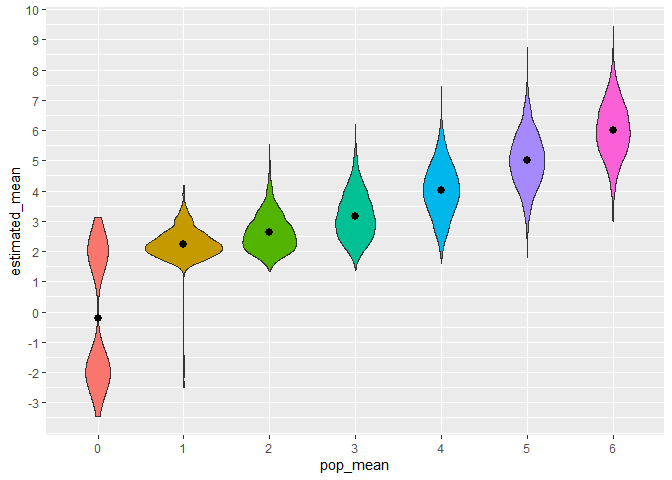
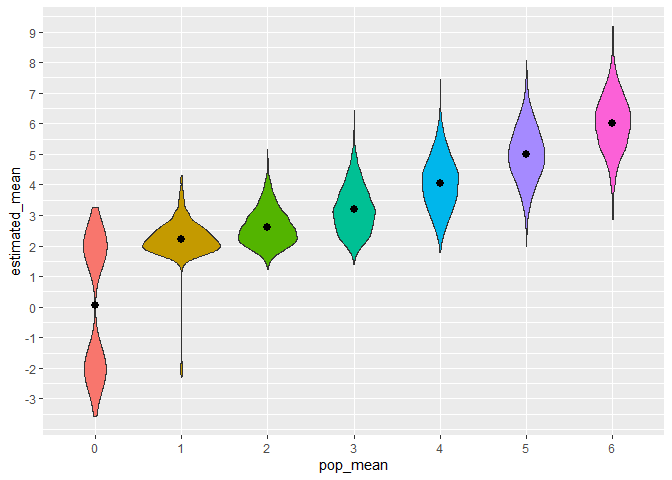
Final commit

diff --git a/p8105_hw5_jt3466.md b/p8105_hw5_jt3466.md
@@ -47,33 +47,6 @@ pop_size <- 30
 pop_sd <- 5
 alpha <- 0.05
 
-# rnorm(mean = 0, n = pop_size, sd = pop_sd) |> 
-#   t.test(mu = 0, alternative = "two.sided")
-# 
-# test <-
-#   expand_grid(
-#     i = 5,
-#     pop_mean = c(0:6)
-#   ) |> 
-#   mutate(
-#     data = map(pop_mean, \(x) rnorm(n = pop_size, mean = x, sd = pop_sd)),
-#     ttest = map2(data, pop_mean, \(x, y) t.test(x = x, mu = y, alternative = "two.sided")),
-#     results = map(ttest, broom::tidy)
-#   ) |> 
-#   unnest(cols = results)
-
-# test_sim_data <- 
-#   expand_grid(
-#     i = 1:5000,
-#     pop_mean = c(0:6)
-#   ) |>
-#   mutate(
-#     data = map(pop_mean, \(x) rnorm(n = pop_size, mean = x, sd = pop_sd)),
-#     ttest = map2(data, pop_mean, \(x, y) t.test(x = x, mu = y, alternative = "two.sided")),
-#     results = map(ttest, broom::tidy)
-#   ) |> 
-#   unnest(cols = results) 
-
 sim_data <- 
   expand_grid(
     i = 1:5000,
@@ -85,75 +58,6 @@ sim_data <-
     results = map(ttest, broom::tidy)
   ) |> 
   unnest(cols = results) 
-  
-# sim_data |> 
-#   filter(p.value < 0.05) |> 
-#   mutate(
-#     abs_statistic = abs(statistic)
-#   ) |> 
-#   select(pop_mean, abs_statistic) |> 
-#   group_by(pop_mean) |> 
-#   summarize(
-#     mean_abs_stat = mean(abs_statistic)
-#   )
-
-# sim_res_data <- 
-#   sim_data |> 
-#   select(pop_mean, estimate, p.value) |> 
-#   rename(estimated_mean = estimate) |> 
-#   arrange(pop_mean) |> 
-#   group_by(pop_mean) |> 
-#   mutate(
-#     significant = case_when(
-#       p.value < 0.05 ~ 1,
-#       p.value > 0.05 ~ 0,
-#       .default = NA
-#     ), 
-#     prptn_sig = mean(significant)
-#   ) 
-# 
-# sim_res_data |> 
-#   ggplot(aes(x = pop_mean, y = prptn_sig)) + 
-#   geom_line()
-
-# sim_data <-
-#   expand_grid(
-#     i = 1:5000,
-#     pop_mean = c(0:6)
-#   ) |>
-#   mutate(
-#     data = map(pop_mean, \(x) rnorm(n = pop_size, mean = x, sd = pop_sd)),
-#     ttest = map2(data, pop_mean, \(x, y) t.test(x = x, mu = y, alternative = "two.sided")),
-#     results = map(ttest, broom::tidy)
-#   ) |> 
-#   unnest(cols = results) 
-# 
-# # sim_data |> 
-# #   mutate(
-# #     mean = map_dbl(data, mean),
-# #     sd = map_dbl(data, sd)
-# #   ) |> 
-# #   select(mean, pop_mean, estimate, sd, everything())
-# 
-#   
-# sim_res_data <- 
-#   sim_data |> 
-#   select(pop_mean, estimate, p.value) |> 
-#   rename(estimated_mean = estimate) |> 
-#   arrange(pop_mean) |> 
-#   group_by(pop_mean) |> 
-#   mutate(
-#     significant = case_when(
-#       p.value < 0.05 ~ 1,
-#       p.value > 0.05 ~ 0,
-#       .default = NA
-#     ), 
-#     prptn_sig = mean(significant)
-#   ) 
-# 
-# sim_res_data |> 
-#   ggplot(aes(x = pop_mean, y = prptn_sig)) + 
-#   geom_line()
 ```
 
 ``` r
@@ -209,16 +113,6 @@ sig_avg_mu_hats <-
     avg_estimated_mean = mean(estimated_mean) 
   )
 
-# avg_mu_hats |> 
-#   filter(pop_mean == 1) |> 
-#   summarize(est_mean = mean(estimated_mean)) |> 
-#   pull(est_mean)
-# 
-# sig_avg_mu_hats |> 
-#   filter(pop_mean == 1) |> 
-#   summarize(est_mean = mean(estimated_mean)) |> 
-#   pull(est_mean)
-
 avg_mu_hats |> 
   ggplot(aes(x = pop_mean, y = estimated_mean)) +
   geom_point() + 
@@ -259,9 +153,9 @@ population mean is approximately the population mean. However, for the
 sample average estimated means for estimates significantly different
 from the null, the trend is largely similar except when the population
 mean is 1 and to a lesser extent, 2. When the population mean is 1, the
-average estimated mean among significant estimates is 2.2397479 instead
+average estimated mean among significant estimates is 2.2523549 instead
 of 1. When the population mean is 2, the average estimated mean among
-significant estimates is 2.6212215.
+significant estimates is 2.6106834.
 
 This somewhat makes sense given that when mu = 1, the lowest of the
 significantly different estimated means is still above mu itself (the
@@ -290,7 +184,7 @@ sig_avg_mu_hats |>
     ## Warning: Removed 7 rows containing missing values or values outside the scale range
     ## (`geom_segment()`).
 
-![](p8105_hw5_jt3466_files/figure-gfm/unnamed-chunk-1-1.png)<!-- -->
+![](p8105_hw5_jt3466_files/figure-gfm/distribution%20of%20estimated%20means%20by%20mu-1.png)<!-- -->
 
 This is reinforced when looking at the distribution of estimated means
 grouped by the population mean the sample came from. When mu is 1, the
@@ -398,25 +292,74 @@ wp_prop <-
             open_homicides = sum(disposition %in% c("Closed without arrest", "Open/No arrest"))) |> 
   mutate(
     prop_unsolved = open_homicides/total_homicides
-  )
+  ) 
 
-wp_prop
+wp_prop |> 
+  arrange(desc(total_homicides)) |> 
+  knitr::kable(digits = 3)
 ```
 
-    ## # A tibble: 51 × 4
-    ##    city_state      total_homicides open_homicides prop_unsolved
-    ##    <chr>                     <int>          <int>         <dbl>
-    ##  1 Albuquerque, NM             378            146         0.386
-    ##  2 Atlanta, GA                 973            373         0.383
-    ##  3 Baltimore, MD              2827           1825         0.646
-    ##  4 Baton Rouge, LA             424            196         0.462
-    ##  5 Birmingham, AL              800            347         0.434
-    ##  6 Boston, MA                  614            310         0.505
-    ##  7 Buffalo, NY                 521            319         0.612
-    ##  8 Charlotte, NC               687            206         0.300
-    ##  9 Chicago, IL                5535           4073         0.736
-    ## 10 Cincinnati, OH              694            309         0.445
-    ## # ℹ 41 more rows
+| city_state         | total_homicides | open_homicides | prop_unsolved |
+|:-------------------|----------------:|---------------:|--------------:|
+| Chicago, IL        |            5535 |           4073 |         0.736 |
+| Philadelphia, PA   |            3037 |           1360 |         0.448 |
+| Houston, TX        |            2942 |           1493 |         0.507 |
+| Baltimore, MD      |            2827 |           1825 |         0.646 |
+| Detroit, MI        |            2519 |           1482 |         0.588 |
+| Los Angeles, CA    |            2257 |           1106 |         0.490 |
+| St. Louis, MO      |            1677 |            905 |         0.540 |
+| Dallas, TX         |            1567 |            754 |         0.481 |
+| Memphis, TN        |            1514 |            483 |         0.319 |
+| New Orleans, LA    |            1434 |            930 |         0.649 |
+| Las Vegas, NV      |            1381 |            572 |         0.414 |
+| Washington, DC     |            1345 |            589 |         0.438 |
+| Indianapolis, IN   |            1322 |            594 |         0.449 |
+| Kansas City, MO    |            1190 |            486 |         0.408 |
+| Jacksonville, FL   |            1168 |            597 |         0.511 |
+| Milwaukee, wI      |            1115 |            403 |         0.361 |
+| Columbus, OH       |            1084 |            575 |         0.530 |
+| Atlanta, GA        |             973 |            373 |         0.383 |
+| Oakland, CA        |             947 |            508 |         0.536 |
+| Phoenix, AZ        |             914 |            504 |         0.551 |
+| San Antonio, TX    |             833 |            357 |         0.429 |
+| Birmingham, AL     |             800 |            347 |         0.434 |
+| Nashville, TN      |             767 |            278 |         0.362 |
+| Miami, FL          |             744 |            450 |         0.605 |
+| Cincinnati, OH     |             694 |            309 |         0.445 |
+| Charlotte, NC      |             687 |            206 |         0.300 |
+| Oklahoma City, OK  |             672 |            326 |         0.485 |
+| San Francisco, CA  |             663 |            336 |         0.507 |
+| Pittsburgh, PA     |             631 |            337 |         0.534 |
+| New York, NY       |             627 |            243 |         0.388 |
+| Boston, MA         |             614 |            310 |         0.505 |
+| Tulsa, OK          |             583 |            193 |         0.331 |
+| Louisville, KY     |             576 |            261 |         0.453 |
+| Fort Worth, TX     |             549 |            255 |         0.464 |
+| Buffalo, NY        |             521 |            319 |         0.612 |
+| Fresno, CA         |             487 |            169 |         0.347 |
+| San Diego, CA      |             461 |            175 |         0.380 |
+| Stockton, CA       |             444 |            266 |         0.599 |
+| Richmond, VA       |             429 |            113 |         0.263 |
+| Baton Rouge, LA    |             424 |            196 |         0.462 |
+| Omaha, NE          |             409 |            169 |         0.413 |
+| Albuquerque, NM    |             378 |            146 |         0.386 |
+| Long Beach, CA     |             378 |            156 |         0.413 |
+| Sacramento, CA     |             376 |            139 |         0.370 |
+| Minneapolis, MN    |             366 |            187 |         0.511 |
+| Denver, CO         |             312 |            169 |         0.542 |
+| Durham, NC         |             276 |            101 |         0.366 |
+| San Bernardino, CA |             275 |            170 |         0.618 |
+| Savannah, GA       |             246 |            115 |         0.467 |
+| Tampa, FL          |             208 |             95 |         0.457 |
+| Tulsa, AL          |               1 |              0 |         0.000 |
+
+I was a little surprised at how low the homicide count was for NYC, with
+how population dense a city it is. It also had a relatively low
+proportion unsolved compared to other cities. Chicago had a large number
+of total homicides, and a large proportion of it unsolved. I wonder if
+that is because of the sheer number of homicides, but Philadelphia with
+the next closest total homicides had a comparatively much lower
+proportion of unsolved homicides.
 
 ``` r
 baltimore_prop <- 
@@ -430,13 +373,13 @@ baltimore_prop <-
   unnest(prop_test_tidy) |> 
   select(estimate, starts_with("conf"))
 
-baltimore_prop
+baltimore_prop |> 
+  knitr::kable(digits = 3)
 ```
 
-    ## # A tibble: 1 × 3
-    ##   estimate conf.low conf.high
-    ##      <dbl>    <dbl>     <dbl>
-    ## 1    0.646    0.628     0.663
+| estimate | conf.low | conf.high |
+|---------:|---------:|----------:|
+|    0.646 |    0.628 |     0.663 |
 
 ``` r
 wp_prop |> 
@@ -473,6 +416,11 @@ wp_prop |>
 
 ![](p8105_hw5_jt3466_files/figure-gfm/q3%20all%20cities-1.png)<!-- -->
 
-There is a super wide CI for Tulsa, AL, which makes sense given that
-there was 1 total homicide and it was a closed case, leading to low
-confidence for the estimated proportion and a wide CI.
+As alluded to earlier, Chicago not only has the most total homicides but
+also the highest proportion of unsolved homicides by a solid margin. The
+next highest two are Baltimore and New Orleans, which both rank
+relatively high for total homicides. CIs are pretty narrow for the most
+part, especially for Chicago. However, there is a super wide CI for
+Tulsa, AL, which makes sense given that there was 1 total homicide and
+it was a closed case, leading to low confidence for the estimated
+proportion and a wide CI.
